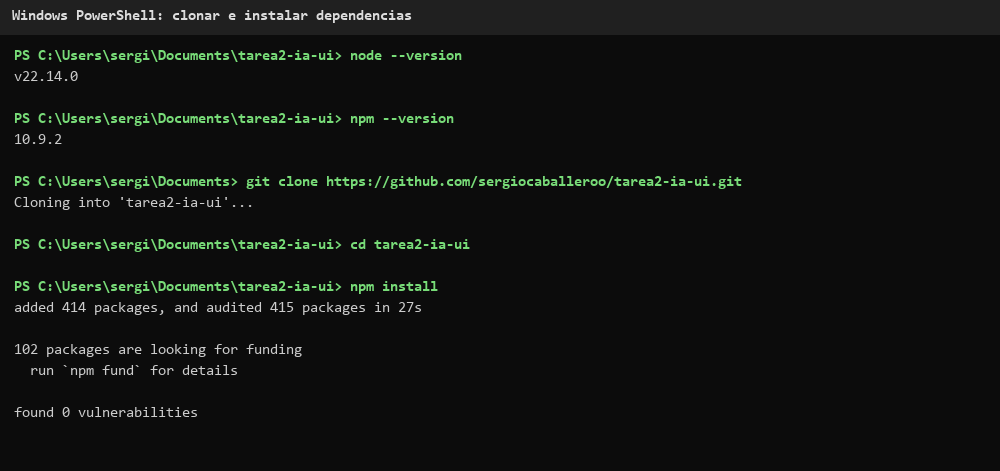
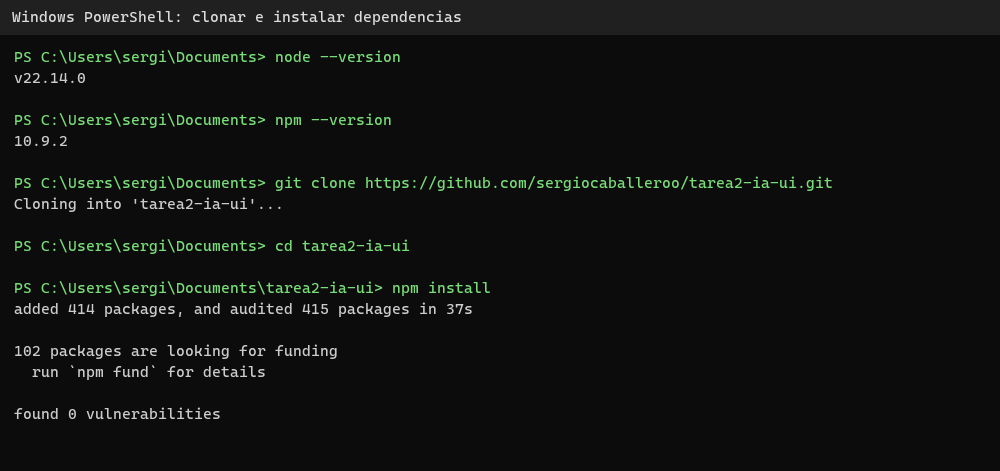
Evidencias de ejecucion local regeneradas con los scripts finales

diff --git a/scripts/capturas-ejecucion.py b/scripts/capturas-ejecucion.py
@@ -12,11 +12,13 @@ Salida: evidencias/capturas/e01..e06 (PNG) y evidencias/ejecucion-local.log (tex
 from __future__ import annotations
 
 import os
+import re
 import shutil
 import subprocess
 import sys
 import tempfile
 import time
+import urllib.request
 from pathlib import Path
 
 from PIL import Image, ImageDraw, ImageFont
@@ -27,10 +29,10 @@ LOG = RAIZ / "evidencias" / "ejecucion-local.log"
 REPO = "https://github.com/sergiocaballeroo/tarea2-ia-ui.git"
 PUERTO_BIB = 4200
 PUERTO_CLI = 4300
+CARPETA_BASE = r"C:\Users\sergi\Documents"
 
 ES_WINDOWS = os.name == "nt"
 NPM = "npm.cmd" if ES_WINDOWS else "npm"
-NPX = "npx.cmd" if ES_WINDOWS else "npx"
 
 
 def correr(cmd: list[str], cwd: Path, timeout: int = 900) -> str:
@@ -44,8 +46,6 @@ def servir(cmd: list[str], cwd: Path, puerto: int, espera: int = 60) -> tuple[su
     log = cwd / f"serve-{puerto}.log"
     f = open(log, "w", encoding="utf-8")
     proc = subprocess.Popen(cmd, cwd=cwd, stdout=f, stderr=subprocess.STDOUT)
-    import urllib.request
-
     for _ in range(espera):
         time.sleep(1)
         try:
@@ -59,26 +59,12 @@ def servir(cmd: list[str], cwd: Path, puerto: int, espera: int = 60) -> tuple[su
 
 
 def limpiar_ansi(texto: str) -> str:
-    import re
-
     texto = re.sub(r"\x1b\[[0-9;?]*[A-Za-z]", "", texto)
     return texto.replace("\r", "")
 
 
-def render_terminal(titulo: str, bloques: list[tuple[str, str]], destino: Path, ancho_cols: int = 100) -> None:
-    """Dibuja una ventana tipo terminal con pares (comando, salida). La salida es la real, sin editar."""
-    lineas: list[tuple[str, str]] = []
-    carpeta = "C:\\Users\\sergi\\Documents"
-    for cmd, out in bloques:
-        lineas.append(("cmd", f"PS {carpeta}> {cmd}"))
-        if cmd.startswith("cd "):
-            carpeta = carpeta + "\\" + cmd[3:].strip()
-        for l in limpiar_ansi(out).splitlines():
-            while len(l) > ancho_cols:
-                lineas.append(("out", l[:ancho_cols]))
-                l = l[ancho_cols:]
-            lineas.append(("out", l))
-        lineas.append(("out", ""))
+def cargar_fuentes():
+    """Fuente monoespaciada (Cascadia Mono o Consolas) y una de símbolos para glifos como el check."""
     fuente = fuente_b = None
     for regular, negrita in (("CascadiaMono.ttf", "CascadiaMono.ttf"), ("consola.ttf", "consolab.ttf")):
         try:
@@ -89,6 +75,29 @@ def render_terminal(titulo: str, bloques: list[tuple[str, str]], destino: Path, 
             continue
     if fuente is None:
         fuente = fuente_b = ImageFont.load_default()
+    try:
+        simbolos = ImageFont.truetype("seguisym.ttf", 15)
+    except OSError:
+        simbolos = fuente
+    return fuente, fuente_b, simbolos
+
+
+def render_terminal(titulo: str, bloques: list[tuple[str, str]], destino: Path, carpeta: str = CARPETA_BASE,
+                    ancho_cols: int = 100) -> None:
+    """Dibuja una ventana tipo terminal con pares (comando, salida). La salida es la real, sin editar."""
+    lineas: list[tuple[str, str]] = []
+    for cmd, out in bloques:
+        lineas.append(("cmd", f"PS {carpeta}> {cmd}"))
+        if cmd.startswith("cd "):
+            carpeta = carpeta + "\\" + cmd[3:].strip()
+        for l in limpiar_ansi(out).splitlines():
+            while len(l) > ancho_cols:
+                lineas.append(("out", l[:ancho_cols]))
+                l = l[ancho_cols:]
+            lineas.append(("out", l))
+        lineas.append(("out", ""))
+
+    fuente, fuente_b, simbolos = cargar_fuentes()
     alto_linea = 21
     ancho = 1000
     alto = 48 + alto_linea * len(lineas) + 24
@@ -99,7 +108,15 @@ def render_terminal(titulo: str, bloques: list[tuple[str, str]], destino: Path, 
     y = 48
     for tipo, l in lineas:
         color = (120, 220, 120) if tipo == "cmd" else (204, 204, 204)
-        d.text((14, y), l, fill=color, font=fuente_b if tipo == "cmd" else fuente)
+        f = fuente_b if tipo == "cmd" else fuente
+        if any(ord(c) > 0x2400 for c in l):
+            # Caracteres especiales (flechas, checks) con la fuente de símbolos, el resto con la monoespaciada.
+            x = 14.0
+            for c in l:
+                d.text((x, y), c, fill=color, font=simbolos if ord(c) > 0x2400 else f)
+                x += d.textlength(c, font=f)
+        else:
+            d.text((14, y), l, fill=color, font=f)
         y += alto_linea
     img.save(destino)
     print("Captura:", destino.name)
@@ -111,13 +128,10 @@ def main() -> None:
     print("Carpeta temporal:", tmp)
     registro: list[str] = []
 
-    # 1) Versiones
     node_v = correr(["node", "--version"], tmp)
     npm_v = correr([NPM, "--version"], tmp)
-    # 2) git clone
     out_clone = correr(["git", "clone", REPO], tmp)
     proyecto = tmp / "tarea2-ia-ui"
-    # 3) npm install
     t0 = time.time()
     out_install = correr([NPM, "install"], proyecto)
     dur_install = time.time() - t0
@@ -132,32 +146,37 @@ def main() -> None:
         SALIDA / "e01-clone-install.png",
     )
 
-    # 4) npm run start:biblioteca y start:clinica (no abren el navegador; se capturan con Playwright)
+    carpeta_proyecto = CARPETA_BASE + "\\tarea2-ia-ui"
     proc_b, out_b = servir([NPM, "run", "start:biblioteca"], proyecto, PUERTO_BIB)
     proc_c, out_c = servir([NPM, "run", "start:clinica"], proyecto, PUERTO_CLI)
     registro += [f"$ npm run start:biblioteca\n{out_b}", f"$ npm run start:clinica\n{out_c}"]
     render_terminal("Windows PowerShell: servidor de desarrollo de la biblioteca",
-                    [("npm run start:biblioteca", out_b)], SALIDA / "e02-start-biblioteca.png")
+                    [("npm run start:biblioteca", out_b)], SALIDA / "e02-start-biblioteca.png", carpeta_proyecto)
     render_terminal("Windows PowerShell: servidor de desarrollo de la clínica",
-                    [("npm run start:clinica", out_c)], SALIDA / "e03-start-clinica.png")
+                    [("npm run start:clinica", out_c)], SALIDA / "e03-start-clinica.png", carpeta_proyecto)
 
-    # 5) Capturas del navegador en localhost con Playwright (usa el Chromium del proyecto).
+    # Capturas del navegador en localhost con Playwright (usa el Chromium del proyecto).
+    rutas = {k: str(SALIDA / v).replace("\\", "/") for k, v in {
+        "b1": "e04-localhost-biblioteca.png",
+        "b2": "e05-localhost-biblioteca-prestamos.png",
+        "c1": "e06-localhost-clinica.png",
+    }.items()}
     guion = f"""
 import {{ chromium }} from 'playwright';
 const b = await chromium.launch();
 const p = await b.newPage({{ viewport: {{ width: 1366, height: 820 }} }});
 await p.goto('http://localhost:{PUERTO_BIB}/#/', {{ waitUntil: 'networkidle' }});
 await p.waitForTimeout(800);
-await p.screenshot({{ path: {str(SALIDA / 'e04-localhost-biblioteca.png')!r} }});
+await p.screenshot({{ path: '{rutas["b1"]}' }});
 await p.goto('http://localhost:{PUERTO_BIB}/#/ajustes', {{ waitUntil: 'networkidle' }});
 await p.getByRole('button', {{ name: /Cargar datos de demostración/ }}).click();
 await p.waitForTimeout(600);
 await p.goto('http://localhost:{PUERTO_BIB}/#/prestamos', {{ waitUntil: 'networkidle' }});
 await p.waitForTimeout(600);
-await p.screenshot({{ path: {str(SALIDA / 'e05-localhost-biblioteca-prestamos.png')!r} }});
+await p.screenshot({{ path: '{rutas["b2"]}' }});
 await p.goto('http://localhost:{PUERTO_CLI}/#/', {{ waitUntil: 'networkidle' }});
 await p.waitForTimeout(800);
-await p.screenshot({{ path: {str(SALIDA / 'e06-localhost-clinica.png')!r} }});
+await p.screenshot({{ path: '{rutas["c1"]}' }});
 await b.close();
 console.log('capturas de navegador listas');
 """
